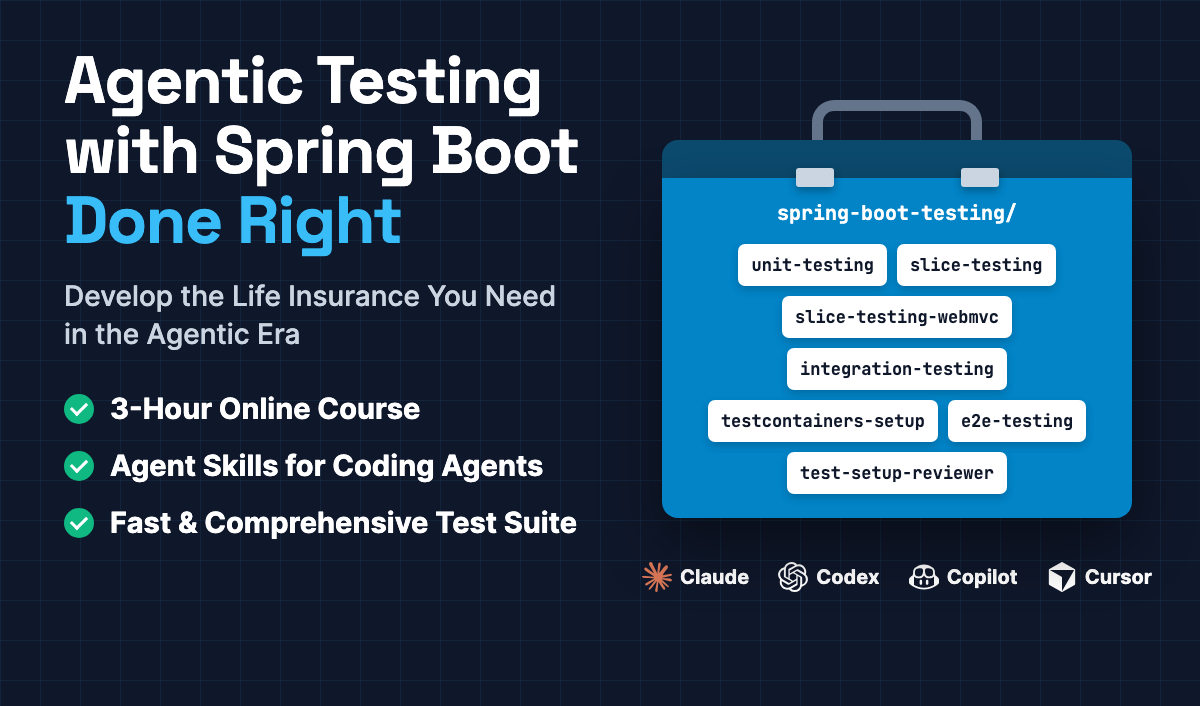
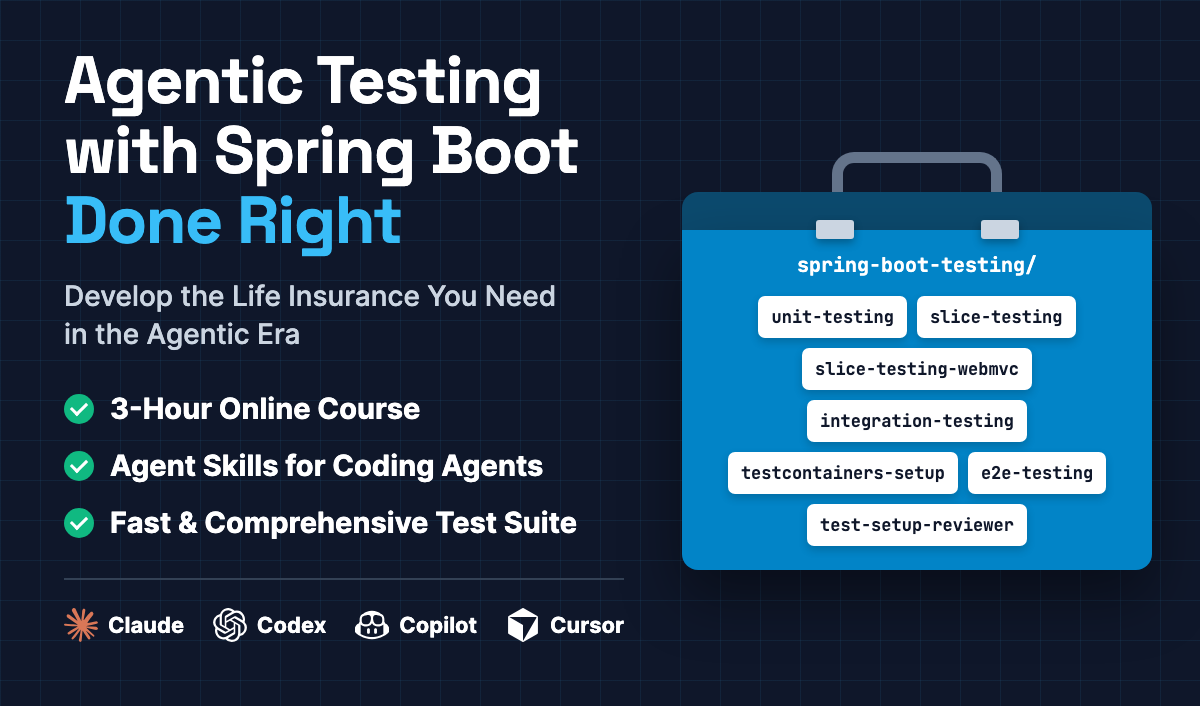
use a separate course thumbnail for link previews on X
The optional front matter twitter_image sets twitter:image. The X version has the
agent logos below the toolbox, because X lays text over the bottom left. og:image
and the website keep the previous thumbnail.

Changed region(s): [[0.5242, 0.1246, 0.9867, 0.8414], [0.0308, 0.8414, 0.5242, 0.9037]]

diff --git a/themes/pragmatech-theme/layouts/partials/head.html b/themes/pragmatech-theme/layouts/partials/head.html
@@ -22,6 +22,8 @@
     {{ if eq .Section "blog" }}{{ $shareImage = partial "blog/share-image.html" . }}{{ end }}
     {{ $imagePrefix := strings.TrimSuffix "/" .Site.BaseURL }}
     {{ $fullImagePath := printf "%s%s" $imagePrefix $shareImage }}
+    {{/* Optional front matter "twitter_image": its own preview for X, which lays text over the bottom left. */}}
+    {{ $fullTwitterImagePath := printf "%s%s" $imagePrefix (.Params.twitter_image | default $shareImage) }}
     {{ $pageTitle := cond .IsHome .Site.Title .Title }}
     {{ $desc := .Description | default .Summary | default .Site.Params.description }}
     
@@ -38,7 +40,7 @@
     <meta name="twitter:url" content="{{ .Permalink }}">
     <meta name="twitter:title" content="{{ $pageTitle }}">
     <meta name="twitter:description" content="{{ $desc }}">
-    <meta name="twitter:image" content="{{ $fullImagePath }}">
+    <meta name="twitter:image" content="{{ $fullTwitterImagePath }}">
 
     {{ with (templates.Defer (dict "key" "global")) }}
         {{ $t := debug.Timer "tailwindcss" }}

diff --git a/themes/pragmatech-theme/layouts/_default/alias.html b/themes/pragmatech-theme/layouts/_default/alias.html
@@ -9,6 +9,7 @@
     {{ $shareImage := .Page.Params.share_image | default "/images/pragmatech-social-banner.png" }}
     {{ $imagePrefix := strings.TrimSuffix "/" .Page.Site.BaseURL }}
     {{ $fullImagePath := printf "%s%s" $imagePrefix $shareImage }}
+    {{ $fullTwitterImagePath := printf "%s%s" $imagePrefix (.Page.Params.twitter_image | default $shareImage) }}
     {{ $desc := .Page.Description | default .Page.Site.Params.description }}
 
     <meta property="og:type" content="website">
@@ -21,7 +22,7 @@
     <meta name="twitter:url" content="{{ .Permalink }}">
     <meta name="twitter:title" content="{{ .Page.Title }}">
     <meta name="twitter:description" content="{{ $desc }}">
-    <meta name="twitter:image" content="{{ $fullImagePath }}">
+    <meta name="twitter:image" content="{{ $fullTwitterImagePath }}">
 </head>
 <body>
     <a href="{{ .Permalink }}">Redirecting&hellip;</a>

diff --git a/content/agentic-spring-boot-testing-course.md b/content/agentic-spring-boot-testing-course.md
@@ -4,6 +4,7 @@ description: "A hands-on 3-hour on-demand course on reliable, meaningful Spring 
 layout: "course-landing"
 image: "/generated/images/courses/agentic-testing-course-thumbnail.webp"
 share_image: "/images/courses/agentic-testing-course-thumbnail.png"
+twitter_image: "/images/courses/agentic-testing-course-thumbnail-x.png"
 # Hides the site-wide announcement banner (hugo.yaml bannerText) on this page.
 hideBanner: true
 

diff --git a/content/lp/devoxx-belgium-2026.md b/content/lp/devoxx-belgium-2026.md
@@ -4,6 +4,7 @@ description: "For Devoxx Belgium attendees: 33% off the Agentic Spring Boot Test
 layout: "lp-lead-magnet"
 image: "/generated/images/courses/agentic-testing-course-thumbnail.webp"
 share_image: "/images/courses/agentic-testing-course-thumbnail.png"
+twitter_image: "/images/courses/agentic-testing-course-thumbnail-x.png"
 hideBanner: true
 robots: "noindex, nofollow"
 sitemap:

diff --git a/content/lp/agentic-testing-webinar.md b/content/lp/agentic-testing-webinar.md
@@ -4,6 +4,7 @@ description: "Free live webinar on 1 December 2026, 17:00 CET: 45 minutes of tal
 layout: "lp-webinar"
 image: "/generated/images/courses/agentic-testing-course-thumbnail.webp"
 share_image: "/images/courses/agentic-testing-course-thumbnail.png"
+twitter_image: "/images/courses/agentic-testing-course-thumbnail-x.png"
 hideBanner: true
 compactForm: true
 

diff --git a/content/agentic-testing-course-thank-you.md b/content/agentic-testing-course-thank-you.md
@@ -5,6 +5,7 @@ layout: "course-thank-you"
 url: "/agentic-spring-boot-testing-course/thank-you/"
 image: "/generated/images/courses/agentic-testing-course-thumbnail.webp"
 share_image: "/images/courses/agentic-testing-course-thumbnail.png"
+twitter_image: "/images/courses/agentic-testing-course-thumbnail-x.png"
 robots: "noindex, nofollow"
 sitemap:
   disable: true

diff --git a/content/lp/agentic-testing-webinar-thank-you.md b/content/lp/agentic-testing-webinar-thank-you.md
@@ -5,6 +5,7 @@ layout: "lp-thank-you"
 url: "/lp/agentic-testing-webinar/thank-you/"
 image: "/generated/images/courses/agentic-testing-course-thumbnail.webp"
 share_image: "/images/courses/agentic-testing-course-thumbnail.png"
+twitter_image: "/images/courses/agentic-testing-course-thumbnail-x.png"
 hideBanner: true
 robots: "noindex, nofollow"
 sitemap:

diff --git a/content/lp/devoxx-belgium-2026-thank-you.md b/content/lp/devoxx-belgium-2026-thank-you.md
@@ -5,6 +5,7 @@ layout: "lp-thank-you"
 url: "/lp/devoxx-belgium-2026/thank-you/"
 image: "/generated/images/courses/agentic-testing-course-thumbnail.webp"
 share_image: "/images/courses/agentic-testing-course-thumbnail.png"
+twitter_image: "/images/courses/agentic-testing-course-thumbnail-x.png"
 hideBanner: true
 robots: "noindex, nofollow"
 sitemap:

diff --git a/content/agentic-testing-convince-your-manager.md b/content/agentic-testing-convince-your-manager.md
@@ -5,4 +5,5 @@ layout: "convince-your-manager"
 url: "/agentic-spring-boot-testing-course/convince-your-manager/"
 image: "/generated/images/courses/agentic-testing-course-thumbnail.webp"
 share_image: "/images/courses/agentic-testing-course-thumbnail.png"
+twitter_image: "/images/courses/agentic-testing-course-thumbnail-x.png"
 ---
